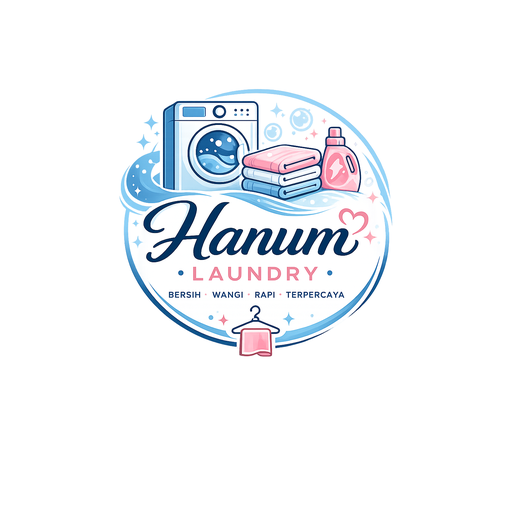
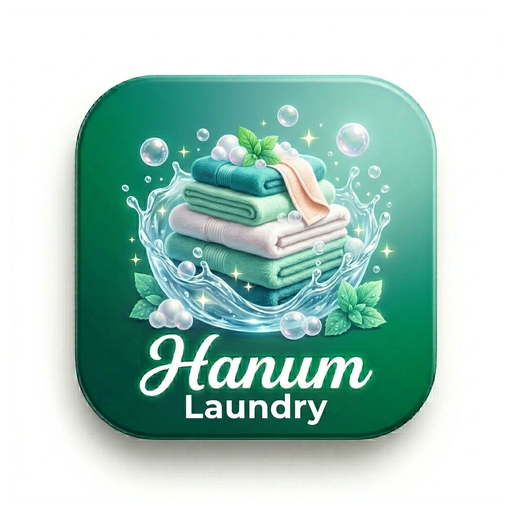
Add files via upload

diff --git a/index.html b/index.html
@@ -145,7 +145,7 @@
 <!-- ===== LOGIN ===== -->
 <div id="login-view" class="gate hide">
   <div class="gate-card">
-    <div class="logo"><div class="mark"><img src="icon-192.png" alt="Hanum" style="width:100%;height:100%;object-fit:cover;border-radius:inherit"></div><div><h1>Hanum Laundry</h1><div class="muted" style="font-size:13px">Sistem Kasir & Manajemen Laundry · <b style="color:#16a34a">v12</b></div></div></div>
+    <div class="logo"><div class="mark"><img src="icon-192.png" alt="Hanum" style="width:100%;height:100%;object-fit:cover;border-radius:inherit"></div><div><h1>Hanum Laundry</h1><div class="muted" style="font-size:13px">Sistem Kasir & Manajemen Laundry · <b style="color:#16a34a">v13</b></div></div></div>
     <div id="login-box">
       <div style="margin:16px 0 4px"><label>Email</label><input id="lg-email" type="email" placeholder="[email redacted]" autocomplete="username" autocapitalize="off"></div>
       <div style="margin:10px 0 4px"><label>Kata sandi</label><input id="lg-pass" type="password" placeholder="••••••••" autocomplete="current-password"></div>
@@ -200,7 +200,7 @@
 const SB_URL_DEFAULT = "https://yiuczvlguotgchfbvaan.supabase.co";
 const SB_KEY_DEFAULT = "sb_publishable_QxDfg9CsDdi2xf7NimN1sw_WloEBALC";
 const SITE_URL = "https://hanum-laundry.vercel.app";
-const APP_VERSION = "v12";
+const APP_VERSION = "v13";
 
 let sb = null;
 const state = { me:null, profile:null, view:'dashboard', cart:[], layanan:[], pelangganCache:[], chartMode:'harian', allOrders:[] };
@@ -623,14 +623,14 @@ async function renderOrders(){
 async function loadOrders(){
   const myView=state.view;
   const q=($('ord-search')?.value||'').trim(); const f=$('ord-status')?.value||'aktif';
-  let query=sb.from('pesanan').select('id,nomor_invoice,kode_tracking,pelanggan_nama,status,total,status_bayar,estimasi_ts,estimasi_selesai,created_at').order('created_at',{ascending:false}).limit(100);
+  let query=sb.from('pesanan').select('id,nomor_invoice,kode_tracking,pelanggan_nama,status,total,status_bayar,estimasi_ts,estimasi_selesai,created_at,perlu_timbang').order('created_at',{ascending:false}).limit(100);
   if(f==='aktif') query=query.eq('status','proses'); else if(f!=='semua') query=query.eq('status',f);
   if(q) query=query.or(`nomor_invoice.ilike.%${q}%,pelanggan_nama.ilike.%${q}%,kode_tracking.ilike.%${q}%`);
   const { data, error } = await query; if(state.view!==myView) return; const list=$('ord-list'); if(!list) return;
   if(error){ list.innerHTML=emptyState('⚠️','Gagal memuat: '+error.message); return; }
   if(!data||!data.length){ list.innerHTML=emptyState('📭','Tidak ada pesanan.'); return; }
   list.innerHTML=`<table><thead><tr><th>Invoice</th><th>Pelanggan</th><th>Status</th><th>Total</th><th>Bayar</th></tr></thead><tbody>${
-    data.map(p=>`<tr style="cursor:pointer" onclick="openOrder('${p.id}')"><td><b>${esc(p.nomor_invoice)}</b><br><span class="muted">${tglID(p.created_at)}</span></td><td>${esc(p.pelanggan_nama||'-')}</td><td>${statusPill(dispStatus(p))}</td><td>${rp(p.total)}</td>
+    data.map(p=>`<tr style="cursor:pointer" onclick="openOrder('${p.id}')"><td><b>${esc(p.nomor_invoice)}</b>${p.perlu_timbang?' <span class="pill" style="color:#b45309;background:#fef3c7;font-size:10px">🆕 timbang</span>':''}<br><span class="muted">${tglID(p.created_at)}</span></td><td>${esc(p.pelanggan_nama||'-')}</td><td>${p.perlu_timbang?'<span class="pill" style="color:#b45309;background:#fef3c7"><span class="dot"></span>Perlu ditimbang</span>':statusPill(dispStatus(p))}</td><td>${p.perlu_timbang?'<span class="muted">—</span>':rp(p.total)}</td>
       <td>${p.status_bayar==='lunas'?'<span class="pill" style="color:#15803d;background:#dcfce7"><span class="dot"></span>Lunas</span>':'<span class="pill" style="color:#b45309;background:#fef3c7"><span class="dot"></span>Belum</span>'}</td></tr>`).join('')
   }</tbody></table>`;
 }
@@ -665,6 +665,7 @@ async function openOrder(id){
   notaMsg+='Buka link di atas, lalu daftar / login pakai nomor WhatsApp ini.\n\n';
   notaMsg+='Terima kasih sudah mempercayakan cucian Anda ke *Hanum Laundry* 🙏';
   openModal(`<div style="display:flex;justify-content:space-between;align-items:start"><div><h3>${esc(p.nomor_invoice)}</h3><div class="muted">${esc(p.pelanggan_nama||'-')} · Lacak: <b>${esc(p.kode_tracking||'-')}</b></div></div><div>${statusPill(ds)}</div></div>
+    ${p.perlu_timbang?`<div class="card" style="background:#fef3c7;border-color:#fde68a;margin-top:10px;padding:11px 13px"><b style="color:#b45309">🆕 Pesanan online dari pelanggan</b><div style="font-size:12px;color:#92400e">Belum ditimbang. Tekan "⚖️ Timbang & Rekap" untuk isi berat & total.</div></div>`:''}
     ${stepHTML?`<div class="steps">${stepHTML}</div>`:''}
     <div style="margin:8px 0">${itemRows||'<span class="muted">—</span>'}</div>
     <div class="r2"><span class="muted">Subtotal</span><span>${rp(p.subtotal)}</span></div><div class="r2"><span class="muted">Diskon</span><span>- ${rp(p.diskon)}</span></div>
@@ -674,7 +675,8 @@ async function openOrder(id){
     ${p.catatan?`<div class="muted" style="font-size:13px;margin-top:4px">Catatan: ${esc(p.catatan)}</div>`:''}
     <div style="margin-top:12px;border-top:1px solid var(--line);padding-top:10px">${logHTML||''}</div>
     <div class="row" style="margin-top:14px">
-      ${canSelesai?`<button class="btn ok" onclick="markSelesai('${p.id}')">✓ Tandai Selesai</button>`:''}
+      ${p.perlu_timbang?`<button class="btn ok" onclick="openTimbang('${p.id}')">⚖️ Timbang & Rekap</button>`:''}
+      ${(canSelesai&&!p.perlu_timbang)?`<button class="btn ok" onclick="markSelesai('${p.id}')">✓ Tandai Selesai</button>`:''}
       ${phone?`<a class="btn wa" href="${waLink(phone,notaMsg)}" target="_blank">📄 Nota via WA</a>`:`<button class="btn wa" onclick="toast('Nomor WhatsApp pelanggan belum ada.')">📄 Nota via WA</button>`}
       ${p.status_bayar==='belum'?`<button class="btn" onclick="markPaid('${p.id}')">Tandai Lunas</button>`:''}
       <button class="btn sec" onclick="reprint('${p.id}')">Cetak</button>
@@ -687,6 +689,40 @@ async function markSelesai(id){ const { error }=await sb.from('pesanan').update(
 async function markPaid(id){ const { error }=await sb.from('pesanan').update({status_bayar:'lunas'}).eq('id',id); if(error){ toast('Gagal: '+error.message); return; } closeModal(); toast('Ditandai lunas.'); if(state.view==='orders')loadOrders(); }
 async function cancelOrder(id){ if(!confirm('Batalkan pesanan ini? Tidak masuk omzet.')) return; const { error }=await sb.from('pesanan').update({status:'batal'}).eq('id',id); if(error){ toast('Gagal: '+error.message); return; } await sb.from('status_log').insert({pesanan_id:id,status:'batal',oleh:state.profile.nama}); closeModal(); toast('Dibatalkan.'); if(state.view==='orders')loadOrders(); else if(state.view==='dashboard')renderDashboard(); }
 async function reprint(id){ const { data:p }=await sb.from('pesanan').select('*').eq('id',id).single(); const { data:items }=await sb.from('pesanan_item').select('*').eq('pesanan_id',id).order('created_at'); if(!p)return; printStruk(p,(items||[]).map(it=>({nama:it.nama_layanan,qty:it.qty,satuan:it.satuan,subtotal:it.subtotal}))); }
+
+/* ----- timbang & rekap: finalisasi order pesanan online pelanggan ----- */
+function findVarianByNama(nama){ for(const p of PAKET){ if(p.varian){ for(const v of p.varian){ if((p.nama+' · '+v.label)===nama) return {harga:v.harga,min:v.min,jam:v.jam}; } } } return null; }
+async function openTimbang(id){ const { data:p }=await sb.from('pesanan').select('*').eq('id',id).single(); const { data:items }=await sb.from('pesanan_item').select('*').eq('pesanan_id',id).order('created_at'); if(!p){ toast('Tidak ditemukan.'); return; } timbangForm(p, items||[]); }
+function timbangForm(p, items){
+  const it=(items&&items[0])||{}; const f=findVarianByNama(it.nama_layanan)||{}; const harga=it.harga||f.harga||0; const min=f.min||0; const jam=f.jam||0;
+  openModal(`<h3>⚖️ Timbang & Rekap</h3>
+    <div class="muted" style="font-size:13px">${esc(p.nomor_invoice)} · ${esc(p.pelanggan_nama||'-')}</div>
+    <div style="margin:10px 0"><b>${esc(it.nama_layanan||'-')}</b><br><span class="muted" style="font-size:12px">${rp(harga)}/kg · min ${min} kg</span></div>
+    <div style="margin:8px 0 4px"><label>Berat timbangan (kg)</label><input id="tb-berat" type="number" min="0" step="0.1" value="${min||1}" oninput="timbangCalc(${harga},${min})" style="font-weight:700;font-size:16px;text-align:center;max-width:140px"></div>
+    <div style="margin:8px 0 4px"><label>Diskon (%)</label><input id="tb-diskon" type="number" min="0" max="100" value="0" oninput="timbangCalc(${harga},${min})" style="max-width:140px"></div>
+    <div id="tb-warn" class="muted" style="font-size:11px;color:var(--warn)"></div>
+    <div class="totline grand" style="margin-top:8px"><span>Total</span><span id="tb-total">${rp(harga*(min||1))}</span></div>
+    <div class="row" style="margin-top:12px"><button class="btn ok" onclick="saveTimbang('${p.id}','${it.id}',${harga},${min},${jam})">Simpan & Proses</button><button class="btn sec" onclick="closeModal()">Batal</button></div>`);
+  timbangCalc(harga,min);
+}
+function timbangCalc(harga,min){
+  const berat=Number($('tb-berat')?.value)||0; const bil=(min&&berat<min)?min:berat; let pct=Number($('tb-diskon')?.value)||0; if(pct<0)pct=0; if(pct>100)pct=100;
+  const sub=Math.round(harga*bil); const total=sub-Math.round(sub*pct/100);
+  const tEl=$('tb-total'); if(tEl) tEl.textContent=rp(total);
+  const w=$('tb-warn'); if(w) w.textContent=(min&&berat<min)?('⚠ di bawah min — ditagih '+min+' kg'):'';
+}
+async function saveTimbang(pesananId, itemId, harga, min, jam){
+  const berat=Number($('tb-berat')?.value)||0; if(berat<=0){ toast('Isi berat timbangan.'); return; }
+  const bil=(min&&berat<min)?min:berat; let pct=Number($('tb-diskon')?.value)||0; if(pct<0)pct=0; if(pct>100)pct=100;
+  const sub=Math.round(harga*bil); const diskon=Math.round(sub*pct/100); const total=sub-diskon;
+  const estTs=new Date(Date.now()+(jam||0)*3600000);
+  try{
+    if(itemId){ const { error:e1 }=await sb.from('pesanan_item').update({qty:bil,subtotal:sub}).eq('id',itemId); if(e1) throw e1; }
+    const { error:e2 }=await sb.from('pesanan').update({subtotal:sub,diskon:diskon,total:total,perlu_timbang:false,estimasi_ts:estTs.toISOString(),estimasi_selesai:estTs.toLocaleDateString('en-CA')}).eq('id',pesananId); if(e2) throw e2;
+    await sb.from('status_log').insert({pesanan_id:pesananId,status:'proses',oleh:state.profile.nama});
+    closeModal(); toast('Tersimpan & diproses.'); if(state.view==='orders')loadOrders(); else if(state.view==='dashboard')renderDashboard();
+  }catch(e){ toast('Gagal: '+(e.message||e)); }
+}
 
 /* ============================================================ CATATAN KASIR (KAS) ============================================================ */
 async function renderKas(){
@@ -1021,18 +1057,20 @@ async function renderPortal(){
       <div class="row" style="align-items:end"><div style="flex:1"><label>No. WhatsApp</label><input id="pp-phone" placeholder="08xxxx"></div>
       <button class="btn" onclick="savePortalPhone()">Simpan</button></div></div>`;
   } else {
-    ph.innerHTML = `<div class="muted" style="margin:-4px 0 12px;font-size:13px">No. WhatsApp Anda: <b>${esc(state.profile.telepon)}</b> · <a href="#" onclick="editPortalPhone();return false">ubah</a></div>`;
+    ph.innerHTML = `<div class="row" style="margin:-2px 0 12px;justify-content:space-between;align-items:center;gap:8px"><div class="muted" style="font-size:13px">No. WhatsApp Anda: <b>${esc(state.profile.telepon)}</b> · <a href="#" onclick="editPortalPhone();return false">ubah</a></div><button class="btn sm" onclick="portalCheckout()">➕ Pesan Laundry</button></div>`;
   }
   const list=$('portal-list');
-  const { data, error } = await sb.from('pesanan').select('id,nomor_invoice,kode_tracking,status,total,status_bayar,estimasi_ts,estimasi_selesai,created_at').order('created_at',{ascending:false}).limit(100);
+  const { data, error } = await sb.from('pesanan').select('id,nomor_invoice,kode_tracking,status,total,status_bayar,estimasi_ts,estimasi_selesai,created_at,perlu_timbang,sumber').order('created_at',{ascending:false}).limit(100);
   if(state.view!=='portal'||!$('portal-list')) return;
   if(error){ list.innerHTML=emptyState('⚠️','Gagal memuat: '+error.message); return; }
-  if(!data||!data.length){ list.innerHTML=emptyState('🧺','Belum ada laundry atas nomor Anda. Pastikan nomor WhatsApp di atas sama persis dengan yang dicatat kasir Hanum Laundry.'); return; }
-  list.innerHTML = data.map(p=>`<div class="card" style="margin-bottom:12px;cursor:pointer" onclick="openPortalOrder('${p.id}')">
-    <div style="display:flex;justify-content:space-between;align-items:start"><div><b>${esc(p.nomor_invoice)}</b><br><span class="muted" style="font-size:13px">Lacak: ${esc(p.kode_tracking||'-')} · ${tglID(p.created_at)}</span></div>${statusPill(dispStatus(p))}</div>
-    <div class="row" style="margin-top:10px;gap:20px"><div><div class="muted" style="font-size:12px">Total</div><b>${rp(p.total)}</b></div>
+  if(!data||!data.length){ list.innerHTML=emptyState('🧺','Belum ada laundry atas nomor Anda. Anda bisa pesan lewat tombol "➕ Pesan Laundry" di atas, atau datang langsung ke Hanum Laundry.'); return; }
+  list.innerHTML = data.map(p=>{ const pt=p.perlu_timbang;
+    const sPill = pt?`<span class="pill" style="color:#b45309;background:#fef3c7"><span class="dot"></span>Menunggu ditimbang</span>`:statusPill(dispStatus(p));
+    return `<div class="card" style="margin-bottom:12px;cursor:pointer" onclick="openPortalOrder('${p.id}')">
+    <div style="display:flex;justify-content:space-between;align-items:start"><div><b>${esc(p.nomor_invoice)}</b><br><span class="muted" style="font-size:13px">Lacak: ${esc(p.kode_tracking||'-')} · ${tglID(p.created_at)}</span></div>${sPill}</div>
+    <div class="row" style="margin-top:10px;gap:20px"><div><div class="muted" style="font-size:12px">Total</div>${pt?'<span class="muted" style="font-size:13px">dihitung petugas</span>':`<b>${rp(p.total)}</b>`}</div>
       <div><div class="muted" style="font-size:12px">Bayar</div>${p.status_bayar==='lunas'?'Lunas':'<b style="color:var(--bad)">Belum</b>'}</div>
-      <div><div class="muted" style="font-size:12px">Estimasi</div>${esc(fmtDue(p))}</div></div></div>`).join('');
+      <div><div class="muted" style="font-size:12px">Estimasi</div>${pt?'-':esc(fmtDue(p))}</div></div></div>`; }).join('');
 }
 function editPortalPhone(){ state.profile.telepon=''; renderPortal(); }
 async function savePortalPhone(){
@@ -1040,6 +1078,22 @@ async function savePortalPhone(){
   const { error }=await sb.from('profiles').update({telepon:v}).eq('id',state.me.id);
   if(error){ toast('Gagal: '+error.message); return; }
   state.profile.telepon=v; toast('Nomor tersimpan.'); renderPortal();
+}
+function portalCheckout(){
+  let body=`<h3>Pesan Laundry</h3><p class="muted" style="margin-top:0;font-size:13px">Pilih paket. <b>Berat & total dihitung petugas</b> saat baju ditimbang — Anda bayar di tempat.</p>
+    <div style="margin:8px 0 6px"><label>Catatan (opsional)</label><input id="co-catatan" placeholder="cth: pewangi extra, baju putih dipisah"></div>`;
+  PAKET.filter(p=>p.tipe==='kiloan').forEach(p=>{
+    body+=`<div style="font-weight:700;margin:10px 0 4px">${p.ikon} ${esc(p.nama)}</div>`;
+    p.varian.forEach(v=>{ body+=`<button class="btn sec" style="width:100%;text-align:left;margin-bottom:6px;display:flex;justify-content:space-between;align-items:center;gap:10px" onclick="submitCheckout('${esc(p.nama)} · ${esc(v.label)}',${v.harga})"><span>${esc(v.label)}<br><span class="muted" style="font-size:12px">min ${v.min} kg</span></span><span style="color:var(--brand);font-weight:800">${rp(v.harga)}/kg</span></button>`; });
+  });
+  openModal(body);
+}
+async function submitCheckout(nama, harga){
+  const catatan=($('co-catatan')?.value||'').trim();
+  if(!confirm('Pesan "'+nama+'"?\nBerat & total akan dihitung petugas saat baju ditimbang.')) return;
+  const { data, error } = await sb.rpc('pesan_pelanggan', { p_paket:nama, p_harga:harga, p_catatan:catatan });
+  if(error){ toast('Gagal: '+error.message); return; }
+  closeModal(); toast('Pesanan terkirim! Nota: '+(data||'-')); renderPortal();
 }
 async function openPortalOrder(id){
   const { data:p }=await sb.from('pesanan').select('*').eq('id',id).single();
@@ -1051,11 +1105,12 @@ async function openPortalOrder(id){
   const itemRows=(items||[]).map(it=>`<div class="r2" style="padding:5px 0;border-bottom:1px solid var(--line)"><span>${esc(it.nama_layanan)} <span class="muted">${it.qty}${esc(it.satuan)}</span></span><b>${rp(it.subtotal)}</b></div>`).join('');
   const beratKg=(items||[]).filter(it=>(it.satuan||'').toLowerCase()==='kg').reduce((a,it)=>a+Number(it.qty||0),0);
   const timeline=(logs||[]).map(l=>`<div class="muted" style="font-size:12px">${new Date(l.created_at).toLocaleString('id-ID')} — ${esc(STATUS[l.status]?.label||l.status)}</div>`).join('');
-  openModal(`<div style="display:flex;justify-content:space-between;align-items:start"><div><h3>${esc(p.nomor_invoice)}</h3><div class="muted">Kode lacak: <b>${esc(p.kode_tracking||'-')}</b></div></div>${statusPill(ds)}</div>
-    ${stepHTML?`<div class="steps">${stepHTML}</div>`:''}
+  openModal(`<div style="display:flex;justify-content:space-between;align-items:start"><div><h3>${esc(p.nomor_invoice)}</h3><div class="muted">Kode lacak: <b>${esc(p.kode_tracking||'-')}</b></div></div>${p.perlu_timbang?'<span class="pill" style="color:#b45309;background:#fef3c7"><span class="dot"></span>Menunggu ditimbang</span>':statusPill(ds)}</div>
+    ${p.perlu_timbang?`<div class="card" style="background:#fef3c7;border-color:#fde68a;margin-top:10px;padding:11px 13px"><b style="color:#b45309">Pesanan diterima 🙌</b><div style="font-size:12px;color:#92400e">Total muncul setelah baju Anda ditimbang petugas. Silakan antar baju ke Hanum Laundry.</div></div>`:''}
+    ${(stepHTML&&!p.perlu_timbang)?`<div class="steps">${stepHTML}</div>`:''}
     <div style="margin:8px 0">${itemRows||'<span class="muted">—</span>'}</div>
     ${beratKg>0?`<div class="r2"><span class="muted">Total berat</span><span>${beratKg} kg</span></div>`:''}
-    <div class="r2"><span class="muted">Total pembayaran</span><b>${rp(p.total)}</b></div>
+    <div class="r2"><span class="muted">Total pembayaran</span>${p.perlu_timbang?'<span class="muted">dihitung petugas</span>':'<b>'+rp(p.total)+'</b>'}</div>
     <div class="r2"><span class="muted">Status bayar</span><span>${p.status_bayar==='lunas'?'Lunas':'<b style="color:var(--bad)">Belum bayar</b>'}</span></div>
     <div class="r2"><span class="muted">Tanggal masuk</span><span>${tglID(p.created_at)}</span></div>
     <div class="r2"><span class="muted">Estimasi selesai</span><span>${esc(fmtDue(p))}</span></div>

diff --git a/sw.js b/sw.js
@@ -1,7 +1,7 @@
 /* Hanum Laundry — service worker v4
    Network-first untuk file aplikasi (selalu versi terbaru saat online),
    fallback ke cache saat offline. Permintaan Supabase/CDN dibiarkan langsung ke jaringan. */
-const CACHE = 'hanum-laundry-v10';
+const CACHE = 'hanum-laundry-v11';
 const ASSETS = ['./', 'index.html', 'manifest.json', 'icon-192.png', 'icon-512.png'];
 
 self.addEventListener('install', (e) => {